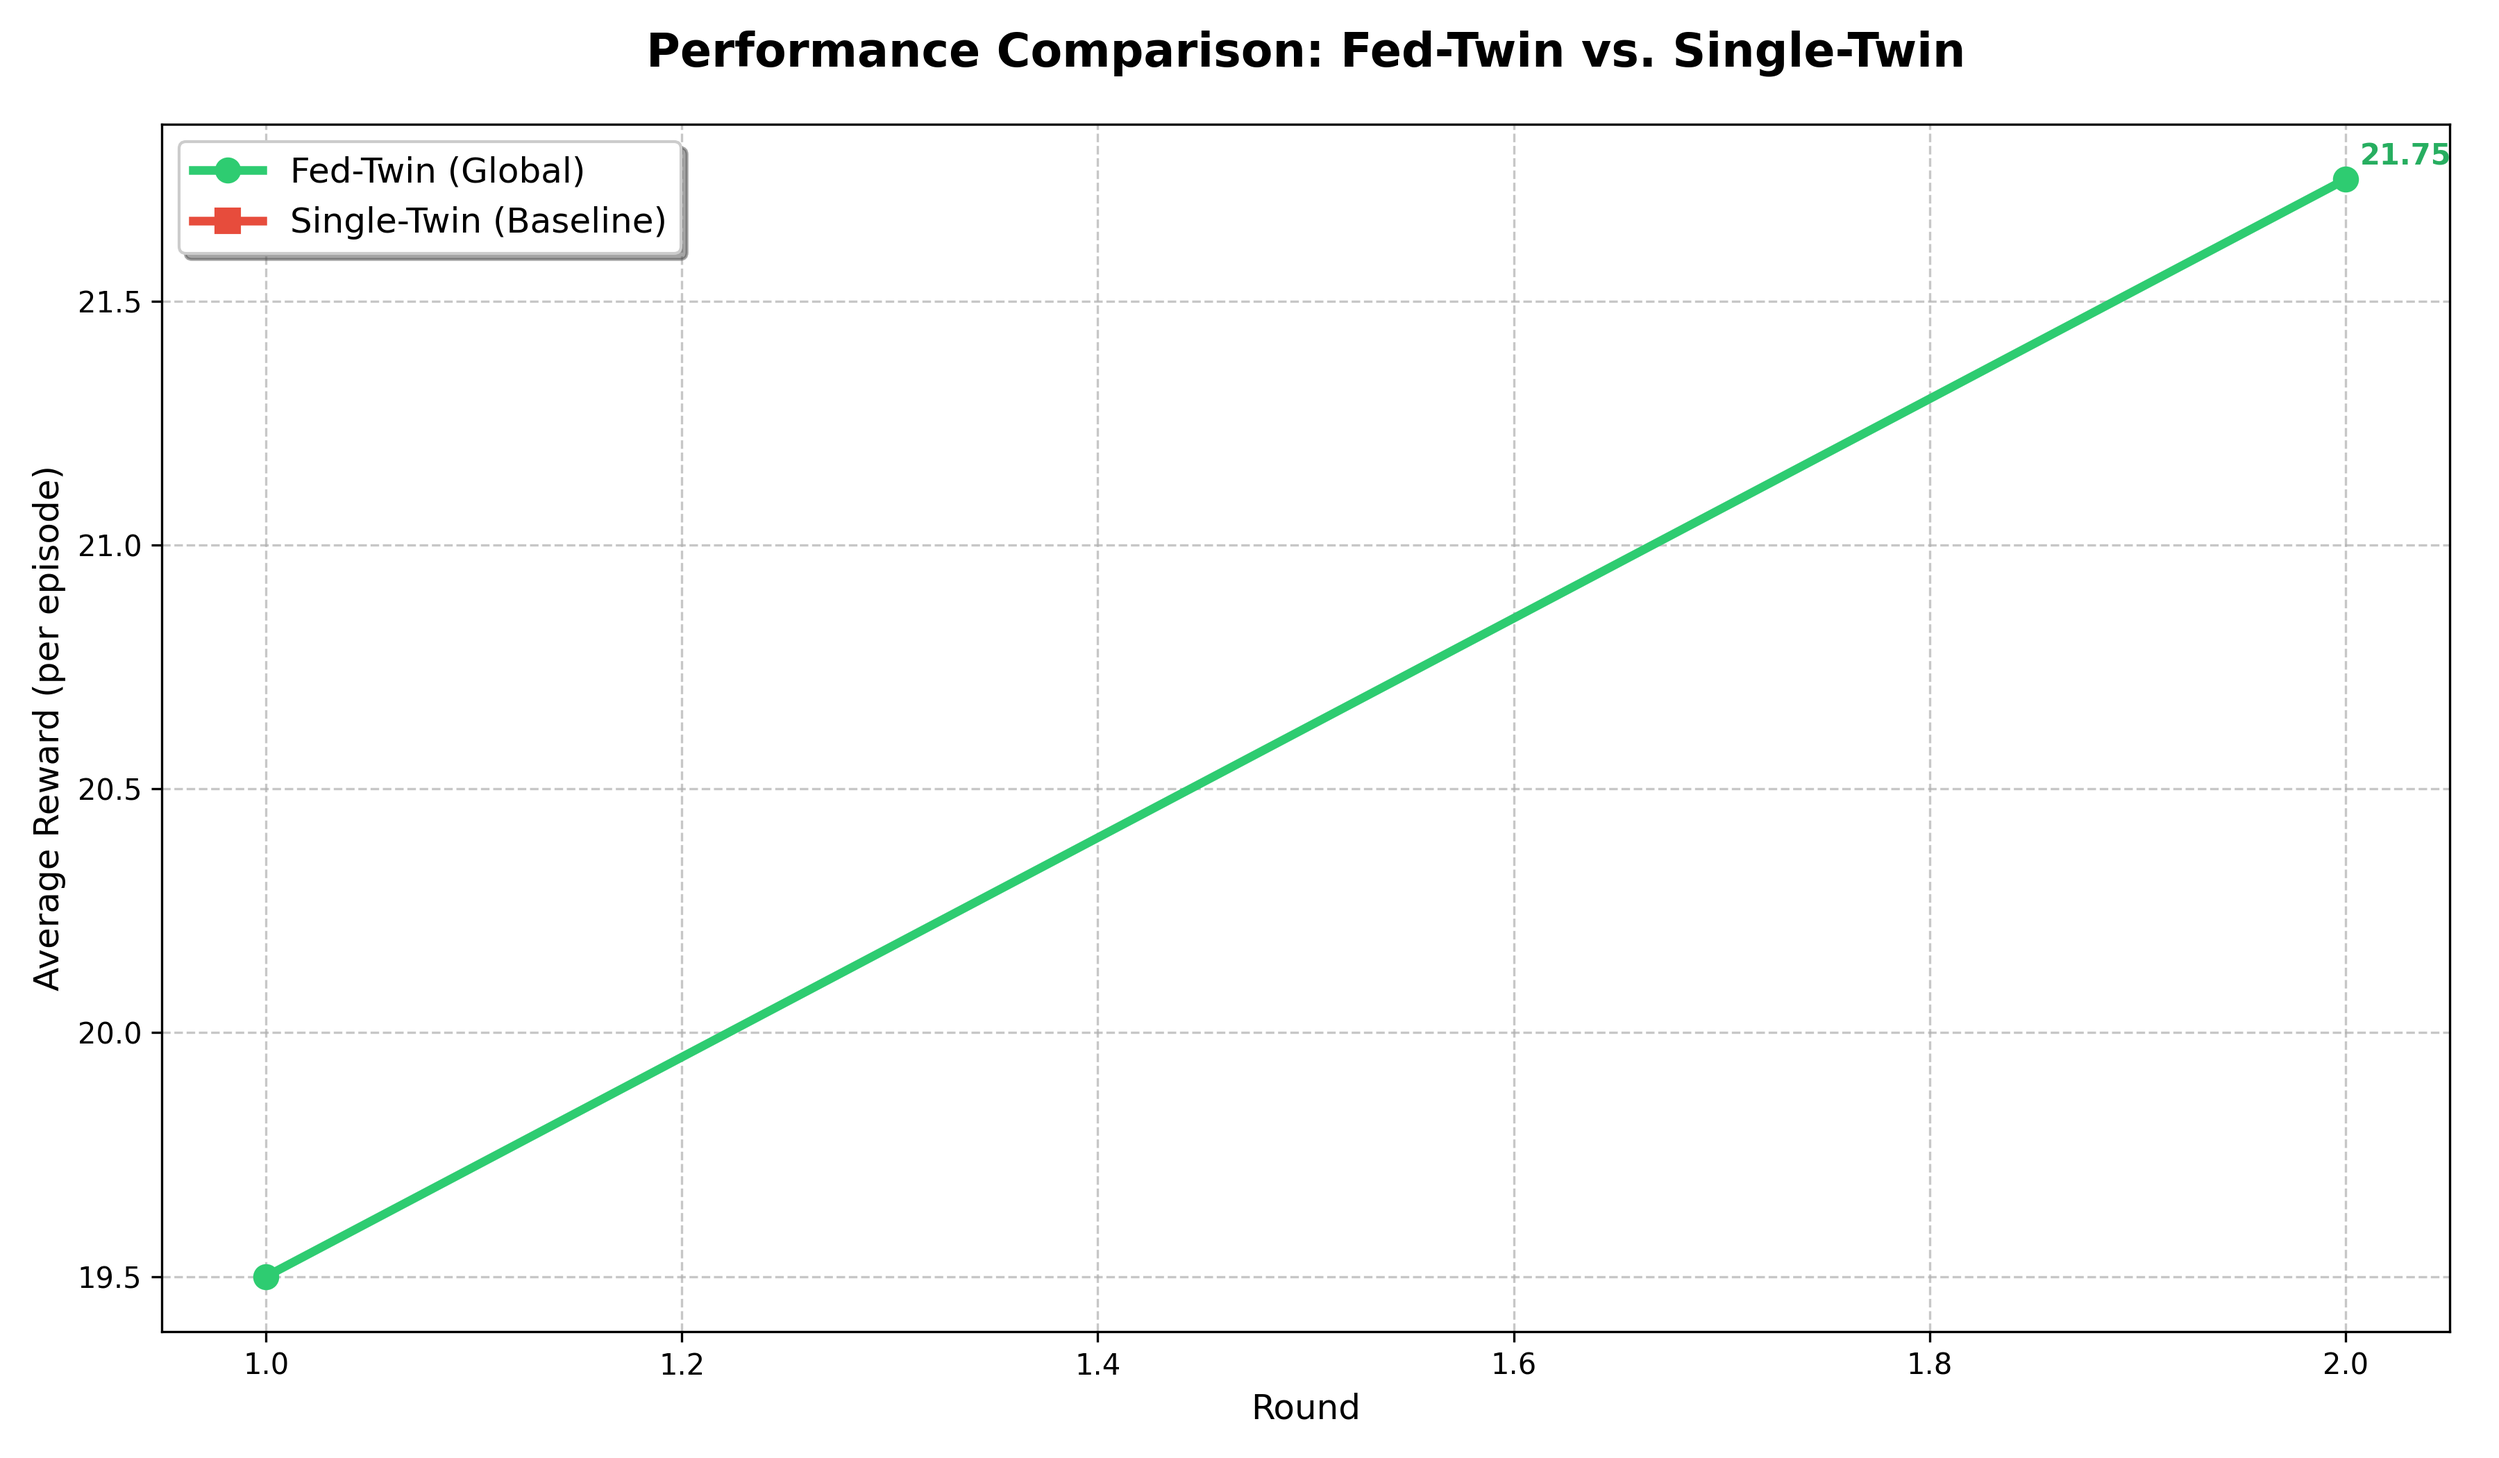
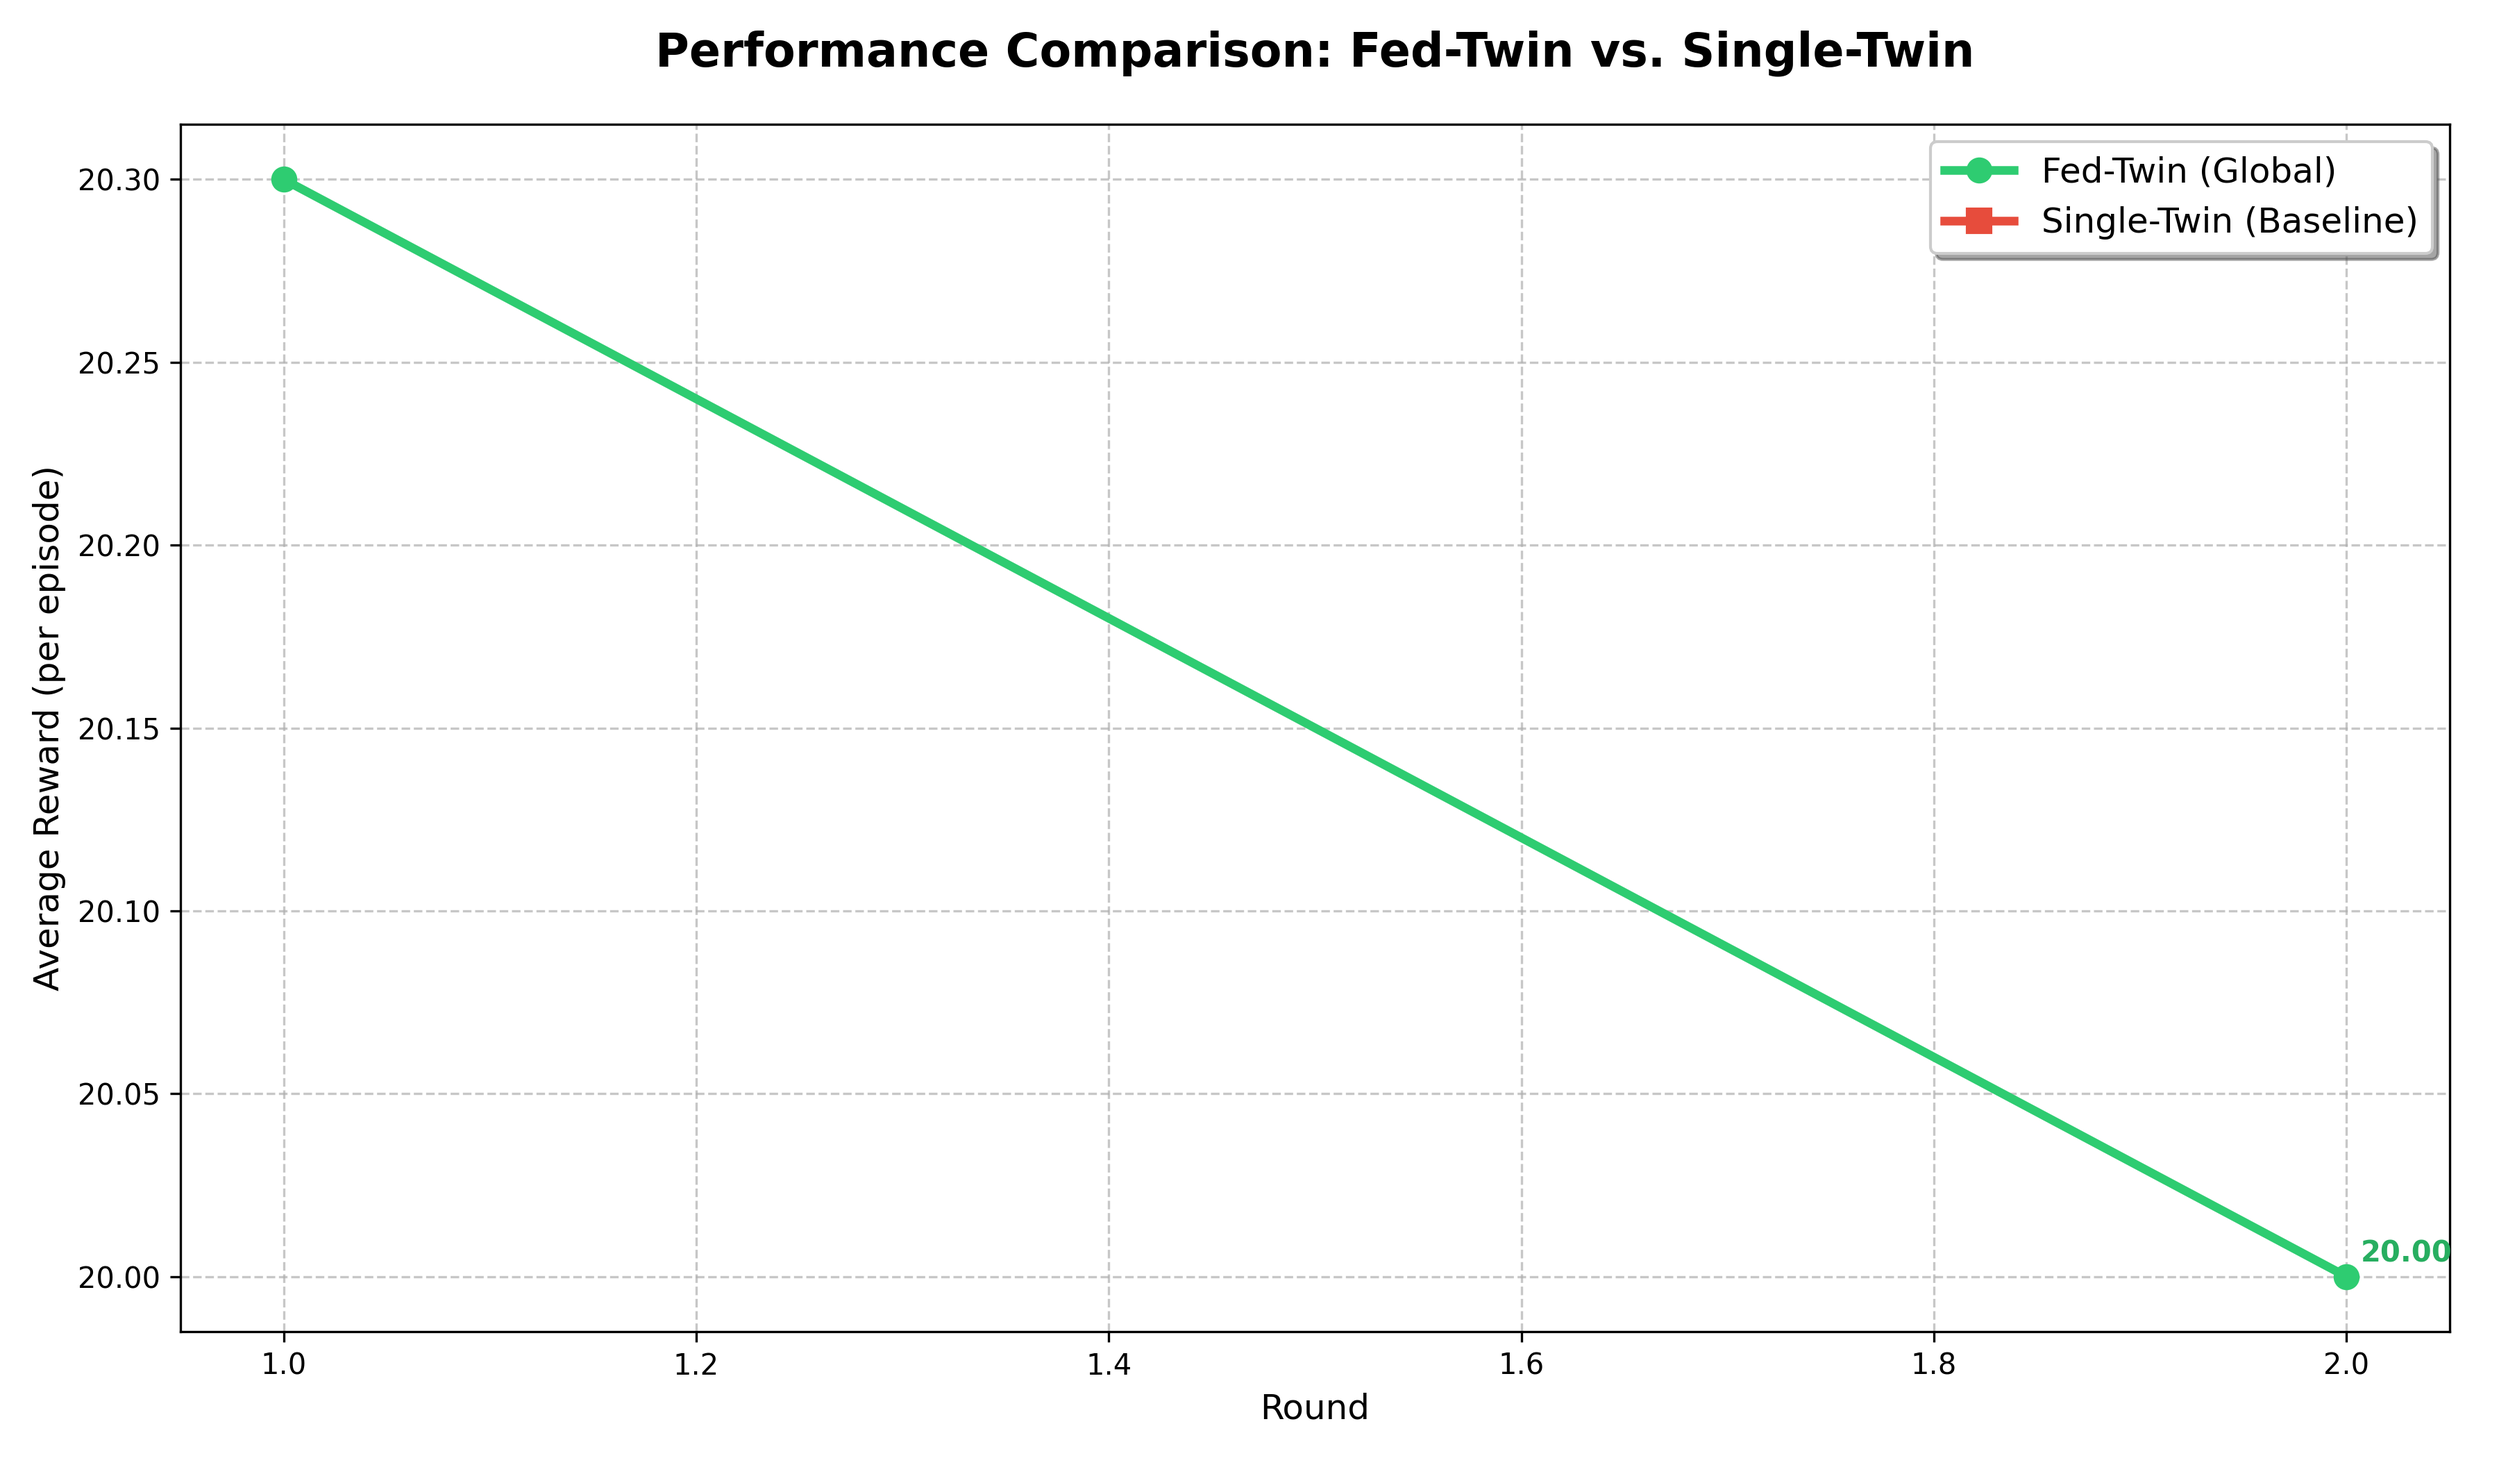
docs(gate): record fed-twin single-cluster re-verification and the metrics-step defect
Closes the last P3 gate criterion. Also records that the metrics component
treats capturing 0 of 10 expected metrics as a warning and still exits
successfully, so a raced scrape is reported as a Succeeded run with an empty
CSV. Pre-existing and out of P3 scope; not fixed, since failing the component
changes when fed-twin runs fail.

diff --git a/docs/p3-gate-evidence.md b/docs/p3-gate-evidence.md
@@ -58,3 +58,55 @@ The multi bring-up exercises the same library code for kind, KFP, training,
 mlflow and nodeports, so the risk is low, but "low risk" is not "verified" --
 `make single-cluster-setup` plus `./run_pipeline.sh fed_twin_single_cluster`
 remains outstanding.
+
+---
+
+# fed-twin single-cluster re-verification (after the fed-infra bump)
+
+Bring-up: `make single-cluster-setup`, **REAL EXIT: 0**
+Run: KFP `federated-twin-single-cluster-pipeline-wl6fw`, **Succeeded** in 70s
+
+```
+round,twin_id,mode,reward,loss
+1,train-twin-1,TRAIN,11.00,-0.0307
+1,train-twin-2,TRAIN,30.50,0.0003
+1,eval-twin-global,EVAL,20.30,0.0
+... 10 rows total (fl_rounds x num_workers x 2 modes, plus the eval twin)
+```
+
+This closes the last outstanding P3 gate criterion. Both consumers, both
+topologies, all verified live.
+
+## Defect found: the metrics step reports success having captured nothing
+
+The **first** attempt succeeded structurally but wrote a header-only CSV. The
+FL training itself was fine -- workers logged real rewards
+(`EVAL Reward: 24.00`, `24.65`) and pushed them to MLflow. What failed was the
+metrics collection component, which scrapes `[METRIC]` lines by *following*
+pod logs (`kubectl logs -f -l training.kubeflow.org/job-name=...`):
+
+```
+Log streaming finished. Total: 26 lines processed, 0 metrics captured
+[WARNING] Warning: Log streaming ended before job completion was confirmed
+[WARNING] Warning: Only captured 0/10 expected metrics
+```
+
+It emitted warnings and **exited successfully**, so KFP reported `Succeeded`
+and the run produced no analysable data. A second run captured all 10
+metrics, which identifies the stream ending early as a race rather than a
+systematic fault -- but the race is not the interesting part.
+
+**The defect is that `0/10 expected metrics` is a warning.** A run that
+collected none of its data is a failed run, and reporting it as `Succeeded`
+means a flake is indistinguishable from a good run without opening the CSV.
+This is the same class as a harness reporting `exit 0` for a `make` that
+exited 1, which cost real time on this project today.
+
+Suggested fix (not applied -- it changes when fed-twin runs fail, which is a
+product decision rather than an infrastructure one): fail the component when
+`metric_count` is 0, or below some floor of `expected_metrics`. Pre-existing
+behaviour, untouched by P3 and unrelated to the fed-infra conversion.
+
+A second, smaller fragility in the same area: `run_pipeline.sh`'s readiness
+wait matched a `Terminating` `ml-pipeline` replica left over from a rollout
+and timed out on a pod that could never become ready. Re-running cleared it.
